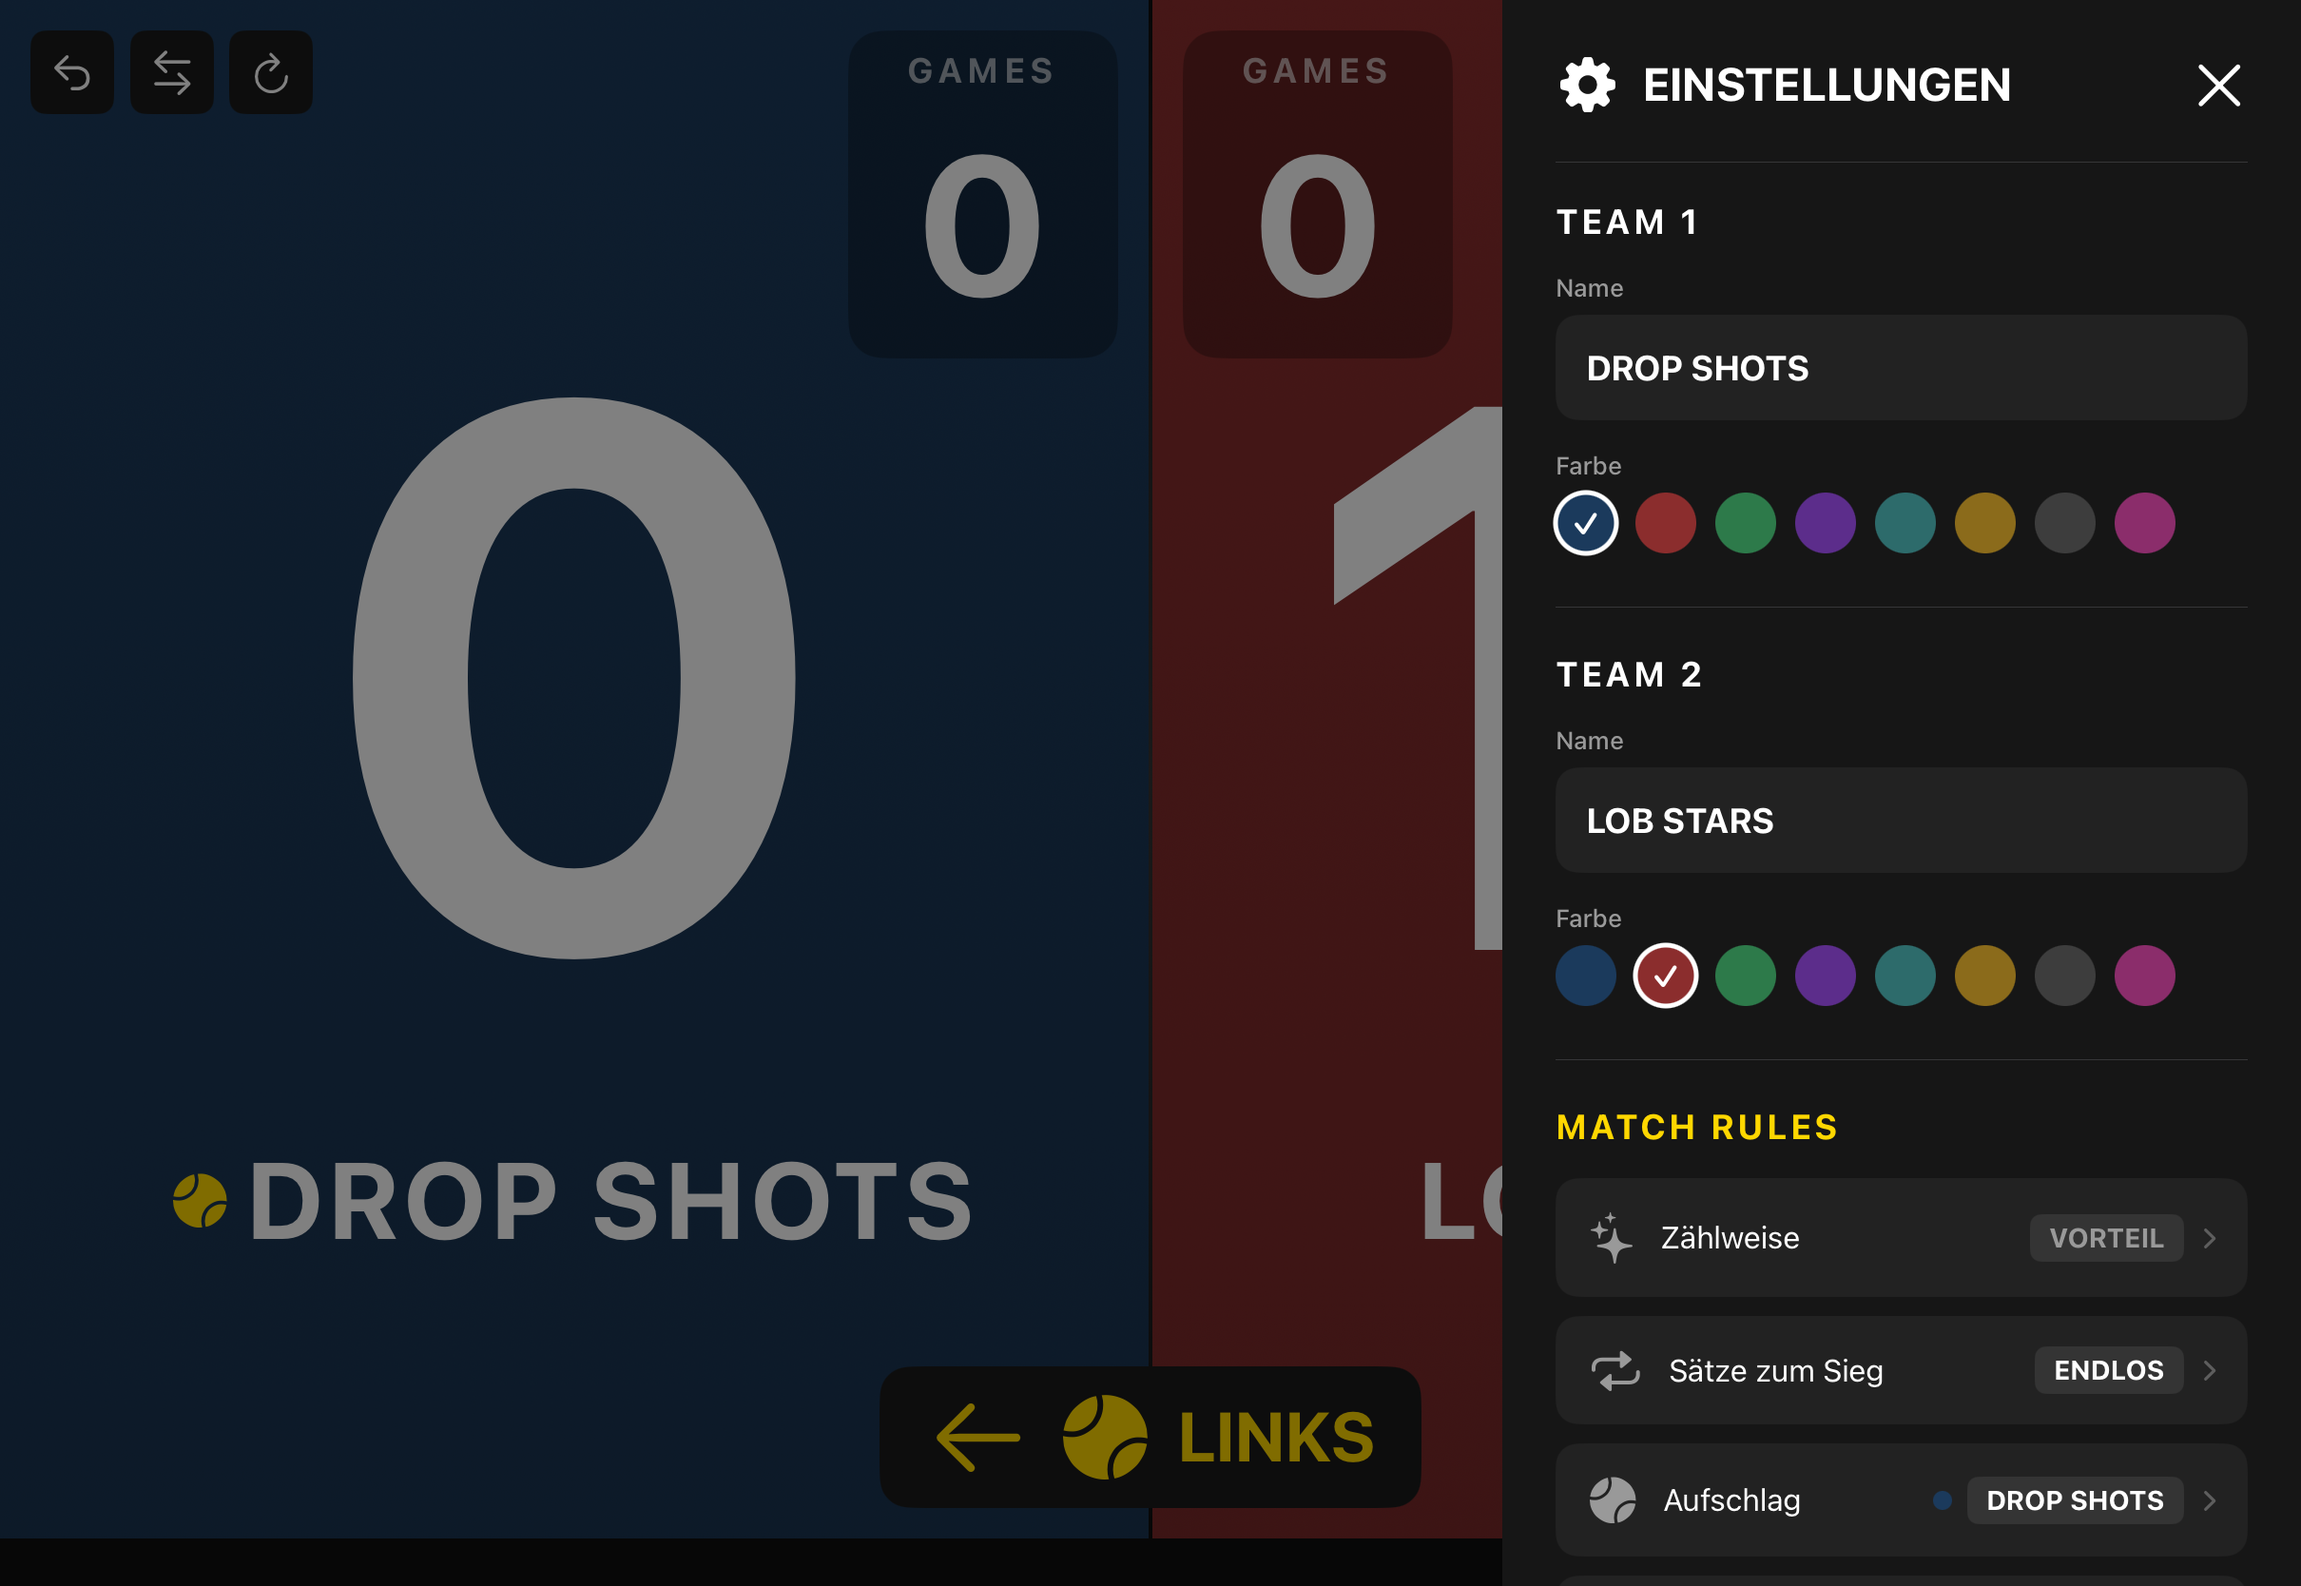
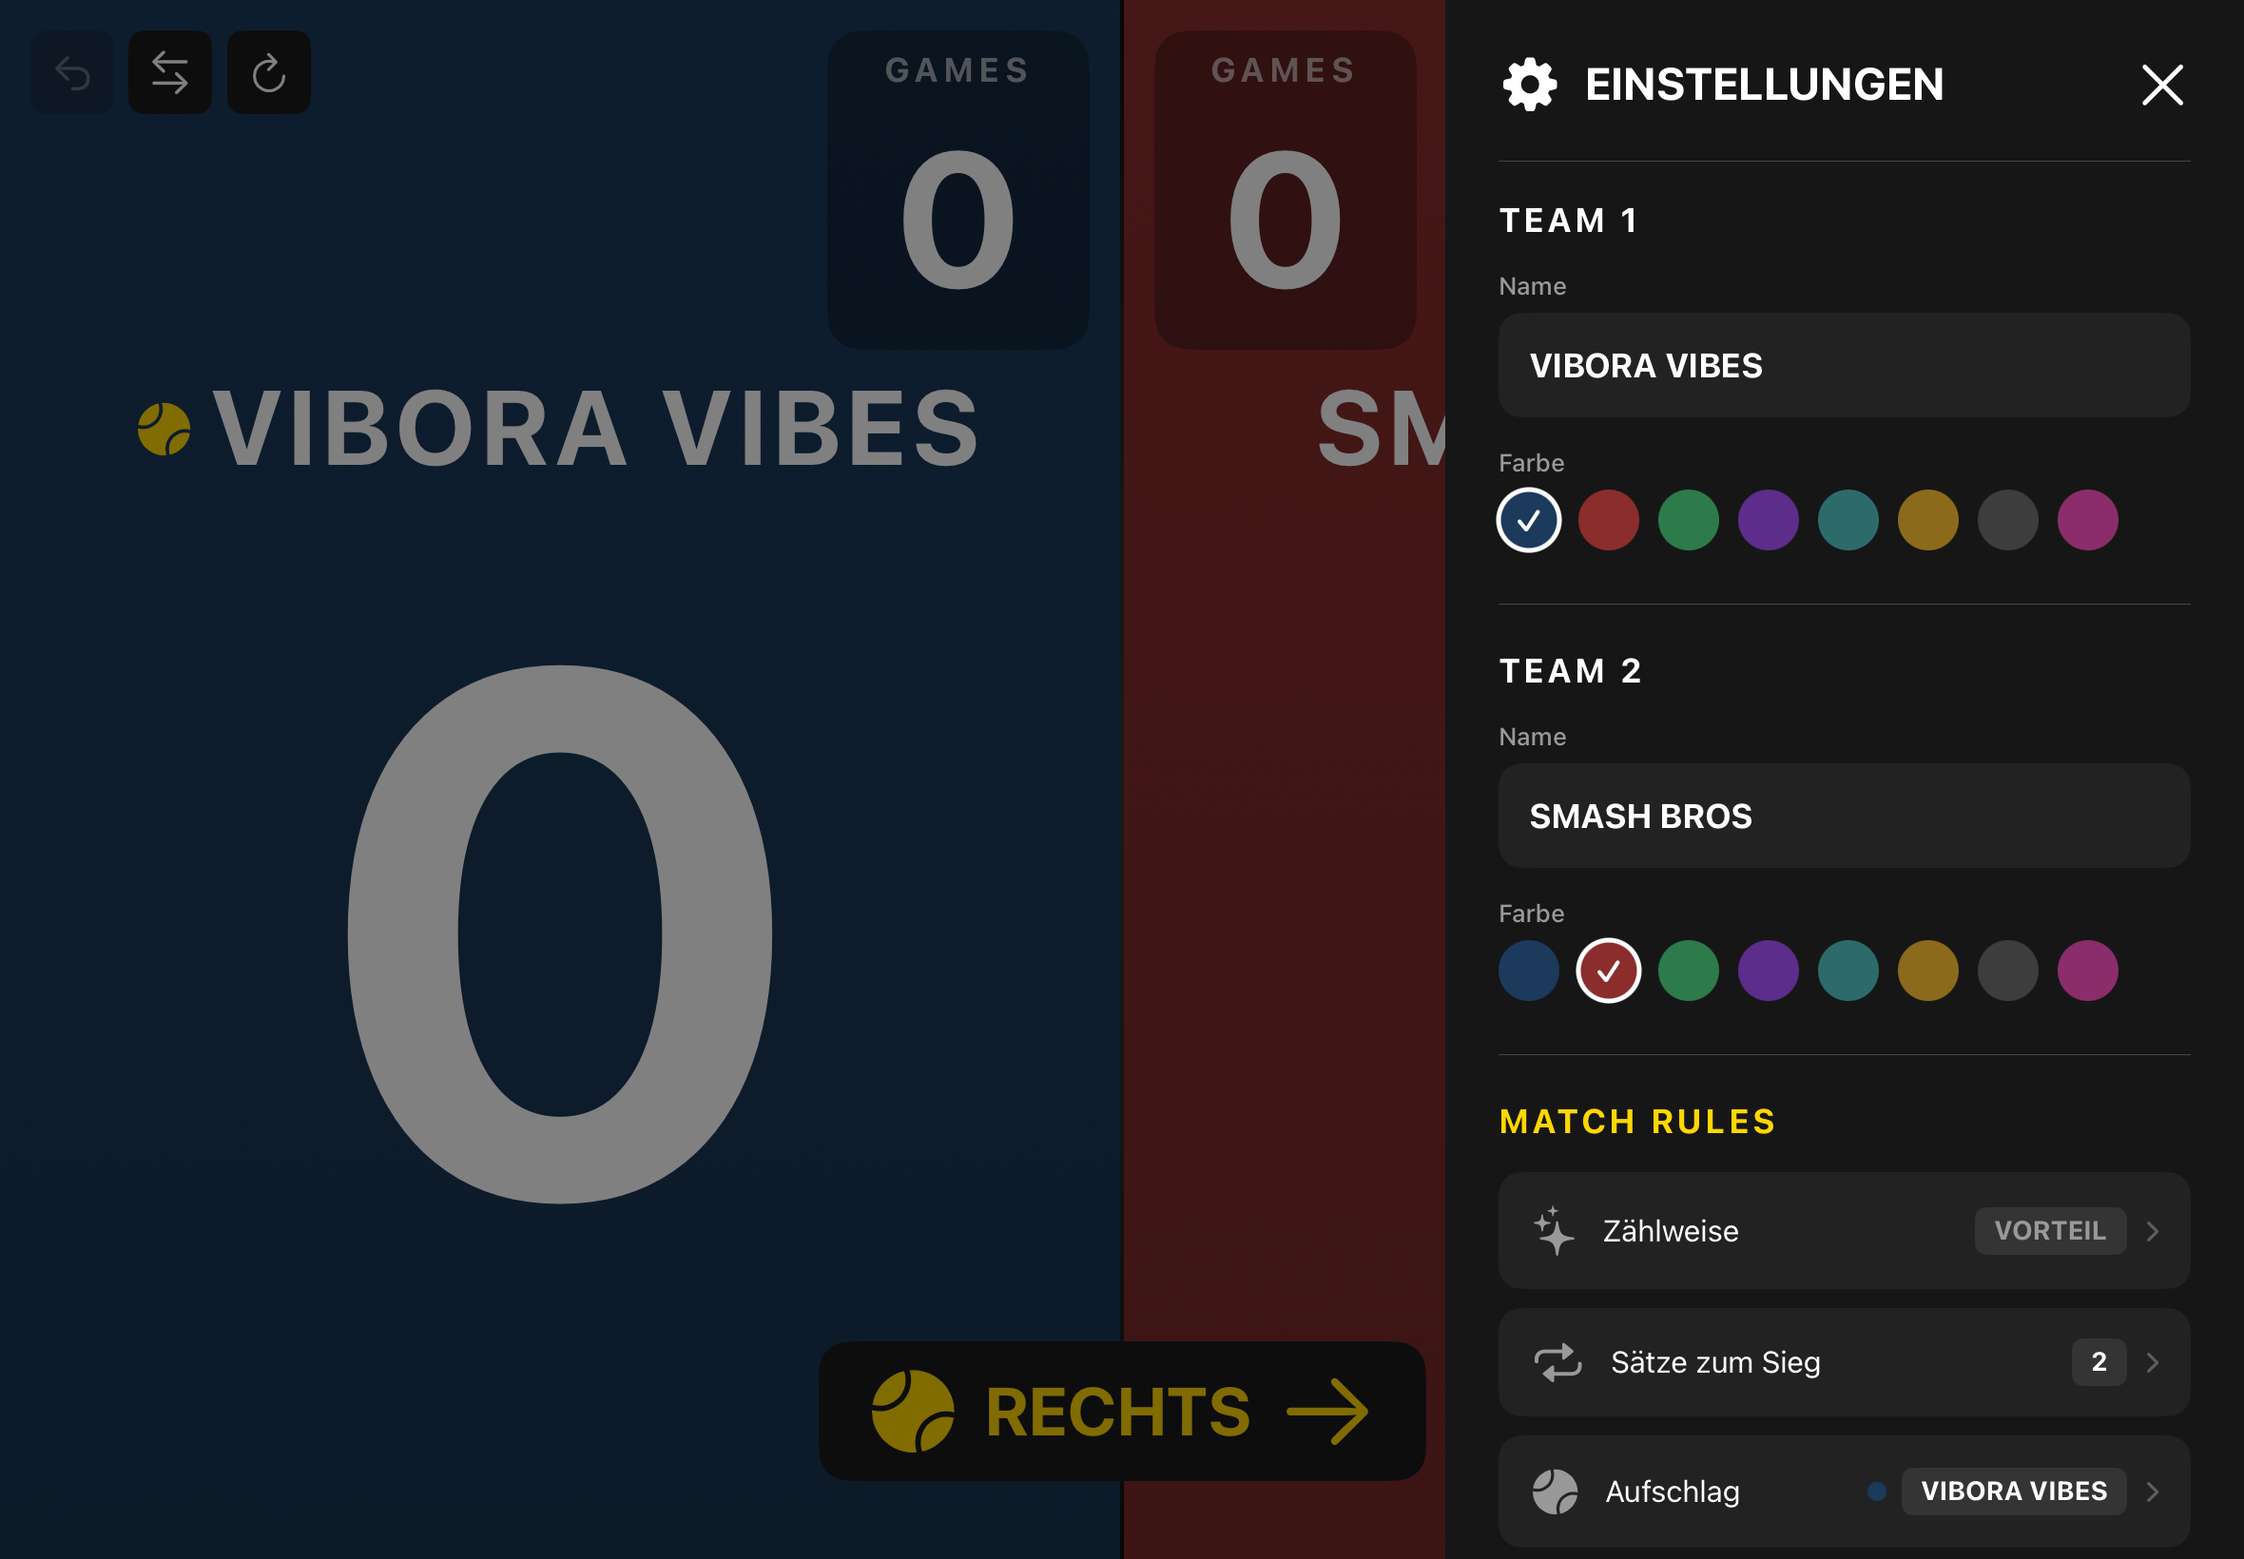
refactor(ios): move team names above score and fix full-screen layout

diff --git a/ios/PadelPulse/Views/TeamPanelView.swift b/ios/PadelPulse/Views/TeamPanelView.swift
@@ -33,8 +33,8 @@ struct TeamPanelView: View {
             .contentShape(Rectangle())
             .onTapGesture { onClick() }
 
-            // Games box — top corner near center
             VStack(spacing: 0) {
+                // Games box — top corner near center
                 HStack {
                     if gamesBoxAtStart {
                         gamesBox(currentGames: currentGames)
@@ -46,13 +46,13 @@ struct TeamPanelView: View {
                 }
                 .padding(.top, layout.panelPadding)
                 .padding(.horizontal, layout.panelPadding)
-                Spacer()
-            }
 
-            // Score + team name — centered
-            VStack(spacing: 0) {
                 Spacer()
 
+                // Team name above score
+                teamNameRow
+
+                // Giant score
                 Text(pointDisplay)
                     .font(.system(size: layout.scoreFont, weight: .bold))
                     .foregroundColor(.white)
@@ -63,11 +63,8 @@ struct TeamPanelView: View {
                     .animation(.spring(response: 0.4, dampingFraction: 0.55), value: pointDisplay)
                     .padding(.horizontal, 20)
 
-                teamNameRow
-
                 Spacer()
             }
-            .padding(.top, layout.scorePaddingTop)
             .padding(.bottom, layout.serveAreaClearance)
         }
         .onChange(of: pointDisplay) { _, _ in

diff --git a/ios/PadelPulse/Views/ScoreBoardView.swift b/ios/PadelPulse/Views/ScoreBoardView.swift
@@ -85,6 +85,7 @@ struct ScoreBoardView: View {
                     onClick: { vm.scorePoint(team: rightTeam) }
                 )
             }
+            .ignoresSafeArea()
 
             // Top-left buttons (icon-only)
             VStack {

diff --git a/CLAUDE.md b/CLAUDE.md
@@ -131,7 +131,7 @@ xcodebuild -project PadelPulse.xcodeproj -scheme PadelPulseTests \
 
 - **Top-left toolbar:** icon-only buttons — Undo, Swap, [Camera], New Match (uniform 44x44pt touch targets)
 - **Top-right:** Timer + Settings gear (same row), completed set pills below
-- **Center:** two team panels with giant score, GAMES box in inner corner, team name at bottom
+- **Center:** two team panels with team name above giant score, GAMES box in inner corner
 - **Bottom center:** serve side indicator (L/R) when enabled
 
 ### iOS-specific notes
